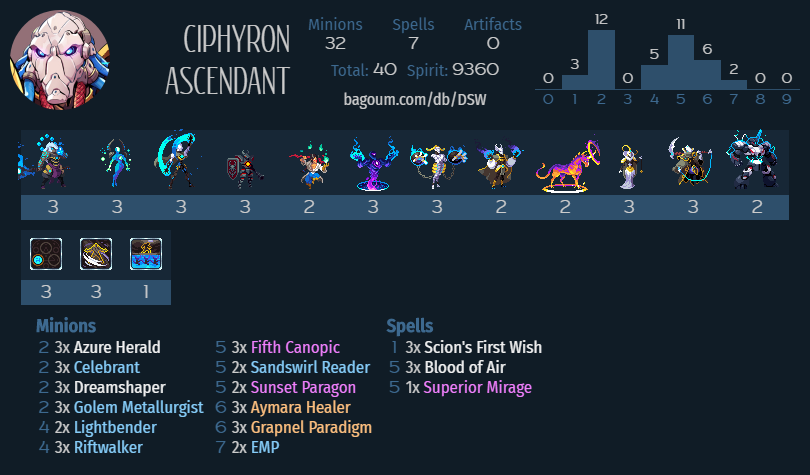
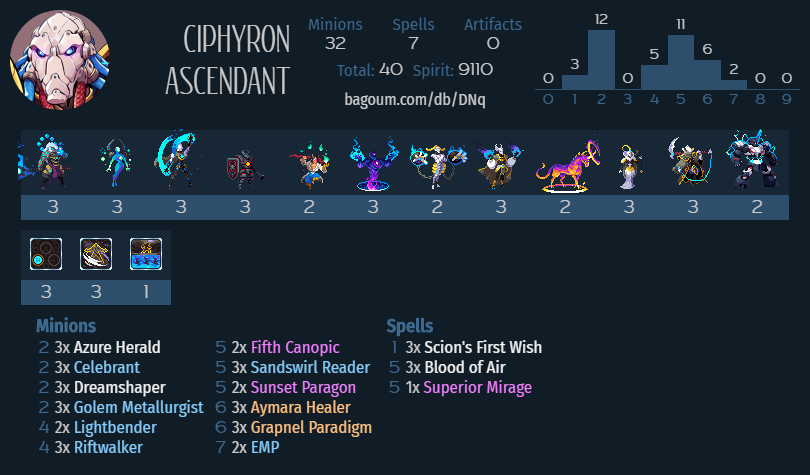
Modified deck - Change Fifth Canopic from 3x to 2x - Change Sandswirl Reader from 2x to 3x

diff --git a/Control_Ciphyron.md b/Control_Ciphyron.md
@@ -1,86 +1,6 @@
 # Control Ciphyron
 
 ### Deck import hash
[2 lines of base64/hex data omitted]
 
 ![](Deck_Images/Control_Ciphyron.png)
-
-## Tips
-### Azure Herald
-  - This deck is the weakest in the early game and you will be taking some real damage.
-  It is recommended to keep **Azure Herald** in your hand when you are against aggro, tempo or burn decks.
-  Also, keep **Azure Herald** in your hand if you know you will be fighting big minions.
-    
-
-### Lightbender
-  - If you think your opponent is going to out value you, you should keep **Lightbender** in your hand.
-  Keep it when you are against **Obelysk**, **Cataclysmic Fault**, **Creep**, **Primal Flourish** or **Xor'Xuul** decks.
-    
-    
-### Riftwalker
-  - Keep **Riftwalker** when against **Lilithe**, **Ragnora** or **Reva**.
-  **Riftwalker** helps you remove far threats like **Eggs**, **Heartseekers** or mass **Wraithlings**.
-  It is recommended to play this early to intensify the damage
-  so that you can deal with a **Furiosa** combo, **Eggs** or **Heartseekers** with **Mythron Wanderer** buff.
-  You can also use **Riftwalker** to destroy artifacts.
-    
-
-### Fifth Canopic
-  - If your opponent is **Faie**, **Ragnora** or **Reva**, always keep **Fifth Canopic** in your hand.
-  Do not replace this card at all. Play this card and they will be in a very bad spot.
-  Also, **Fifth Canopic** has a 4/8 body, immune to **Plasma Storm** and survives one **Homeostatic Rebuke** so keeping this when against **Magmar** is also a good idea.
-  
-  
-### Sunset Paragon
-  - **Sunset Paragon** is very strong against minions with higher attack than its health or minions with even stats `2/2` or `7/7`.
-  Therefore, it is recommended to keep **Sunset Paragon** when against **Vetruvian's Dervishes** or **Abyssian's Wraithlings**.
-
-
-### Aymara Healer
-  - Important to keep **Aymara Healer** when you think you will be taking big damage as it keeps you healthy in the late game.
-  In the late game, when your opponent might be low in health, **Aymara Healer** serves as a big threat as it deals 5 damage to them upon its death.
-  Recommended to keep this when against **Abyssian** as they do not have Transformation spells which means they have to trigger **Aymara Healer's** Dying Wish.
-  Also recommended to keep this against **Magmar**.
-  As long as they do not having cards like **Thumping Wave**, they'd have to think twice before using **Natural Selection** or **Homeostatic Rebuke**.
-
-  
-### Grapnel Paradigm
-  - Good to keep **Grapnel Paradigm** against **Maehv's Husks**, **Starhorn's Decimus** or perhaps swarm decks.
-  Works very well with **Ciphyron's** Bloodbound Spell.
-
-
-### EMP
-  - **EMP** is extremely powerful against artifact, buff or wall decks.
-  It is recommended to keep at least 1 **EMP** in your hand throughout the game.
-
-
-### Blood of Air
-  - A very valuable card in your hand,
-  **Blood of Air** is a Transformation spell that transform any enemy minion into a `2/2` **Wind Dervish**.
-  This means you can get rid off a big threat and use the `2/2` **Wind Dervish** to kill a small threat.
-  Since **Blood of Air** is a Transformation spell, it does not trigger Dying Wish or Deathwatch effects.
-
-
-### Superior Mirage
-  - **Superior Mirage** is in this deck for only a reason, **Makantor Warbeast**.
-  Therefore, having **Superior Mirage** in your hand would give you an advantage over **Magmar**.
-  You can also use **Superior Mirage** for cards like **Inquisitor Kron** or **Dustdrinker**.
-
-
-## Early game
-  - Play defensively and try to develop a board.
-  Usually using **Scion's First Wish** to trade and keeping your minions alive at the same time.
-
-
-## Mid game
-  - Just. Live.
-  
-  
-## Late game
-  - This is when you can start being a little aggressive with **Fifth Canopic**, **Aymara Healer** or **Grapnel Paradigm**.
-  You don't have to go aggro if you are half dead. In fact, it is not recommended.
-
-
-## Overview
-  - You are weak in the early game, strong in the late game.
-  You have a higher chance of defeat if you do not have a turn 1 or a turn 2 play. This has happened to me frequently.
